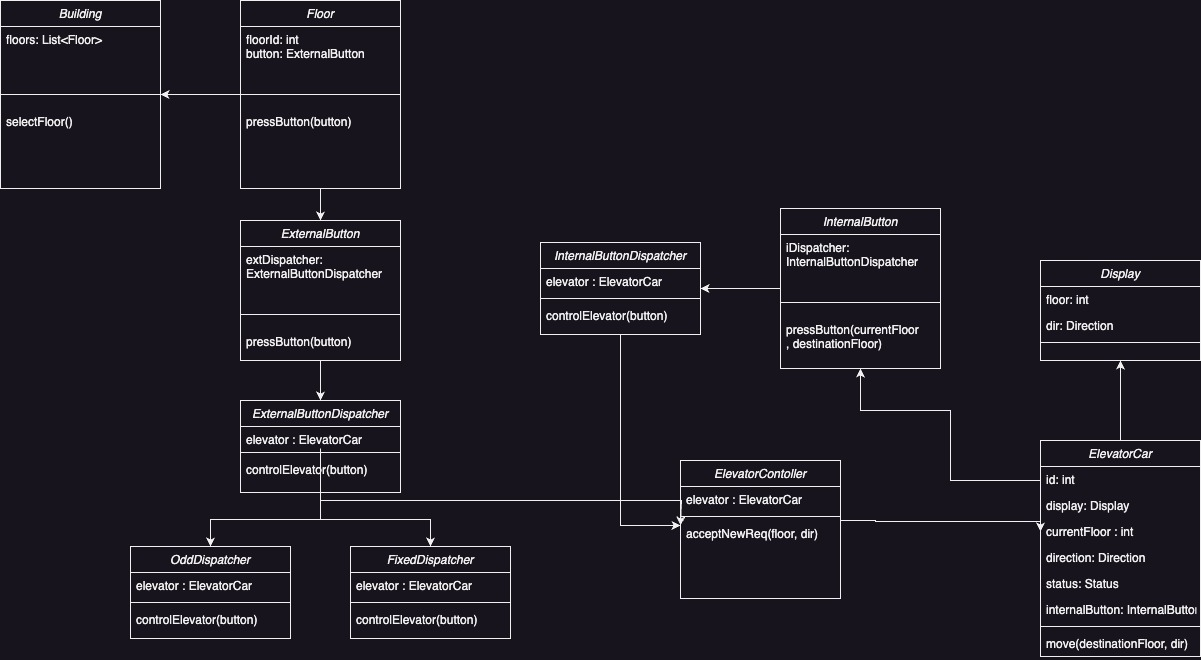
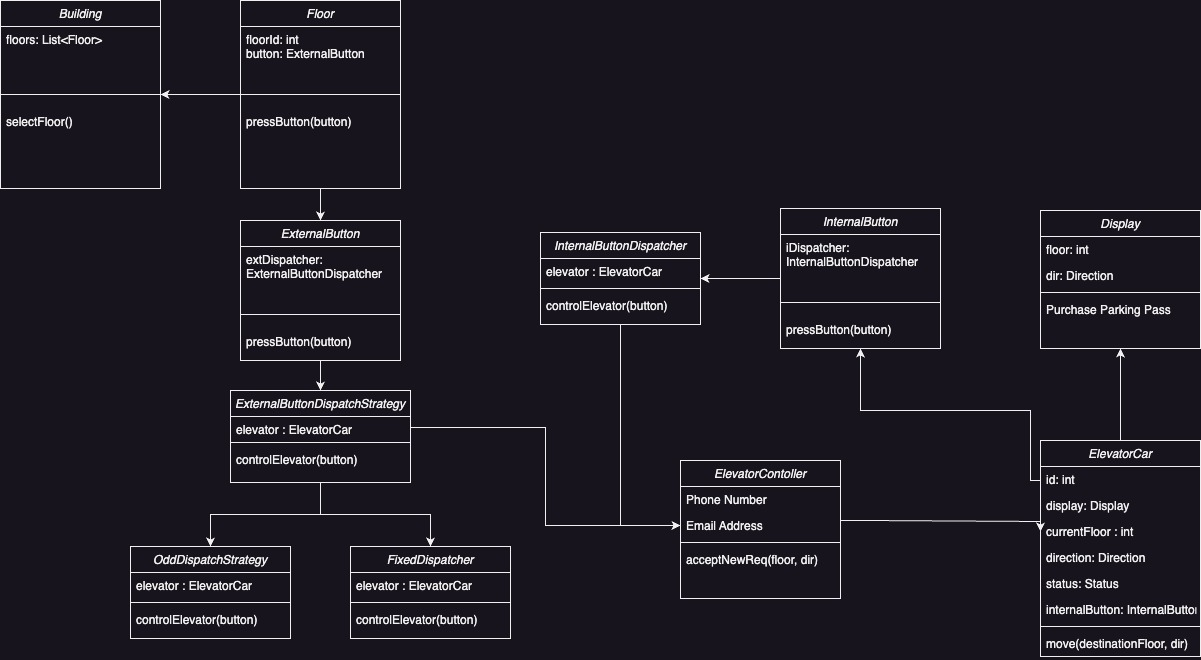
Added new elevator design

diff --git a/src/main/java/org/problems/elevator/ExternalButton.java b/src/main/java/org/problems/elevator/ExternalButton.java
@@ -2,19 +2,20 @@ package org.problems.elevator;
 
 public class ExternalButton {
     private ElevatorController controller;
+    private ExternalButtonDispatchStrategy externalButtonDispatchStrategy;
 
-    public ExternalButton(ElevatorController controller) {
+    public ExternalButton(ElevatorController controller, ExternalButtonDispatchStrategy externalButtonDispatchStrategy) {
         this.controller = controller;
+        this.externalButtonDispatchStrategy = externalButtonDispatchStrategy;
     }
 
-    public void pressButton(String direction) {
+    public void pressButton(String direction, int destinationFloor) {
         System.out.println("External button pressed to go " + direction + ".");
         int currentFloor = controller.getCurrentFloor();
         int targetFloor = currentFloor + (direction.equals("UP") ? 1 : -1);
-        if (targetFloor >= 0) {
-            controller.acceptNewReq(targetFloor, direction);
-        } else {
-            System.out.println("Invalid floor request.");
-        }
+
+        externalButtonDispatchStrategy.controlElevator(currentFloor, destinationFloor, direction);
+
+
     }
 }

diff --git a/src/main/java/org/problems/elevator/ElevatorSystem.java b/src/main/java/org/problems/elevator/ElevatorSystem.java
@@ -11,7 +11,7 @@ public class ElevatorSystem {
         ElevatorController controller = new ElevatorController(elevator);
 
         InternalButton internalButton = new InternalButton(controller);
-        ExternalButton externalButton = new ExternalButton(controller);
+        ExternalButton externalButton = new ExternalButton(controller, new OddDispatchStrategy(controller));
 
         Floor floor1 = new Floor(1, externalButton);
         Floor floor2 = new Floor(2, externalButton);
@@ -23,7 +23,7 @@ public class ElevatorSystem {
         Building building = new Building(floors, controller);
 
         // Simulate pressing buttons
-        floor1.pressButton("UP");
+        floor1.pressButton("UP", 2);
         internalButton.pressButton(2);
         controller.acceptNewReq(1, "DOWN");
     }

diff --git a/src/main/java/org/problems/elevator/OddDispatchStrategy.java b/src/main/java/org/problems/elevator/OddDispatchStrategy.java
@@ -1,0 +1,21 @@
+package org.problems.elevator;
+
+public class OddDispatchStrategy implements ExternalButtonDispatchStrategy{
+
+    ElevatorController controller;
+
+    public OddDispatchStrategy(ElevatorController controller){
+        this.controller = controller;
+    }
+
+    @Override
+    public void controlElevator(int currentFloor, int destinationFloor, String direction) {
+
+        // some logic to control the elevator
+        if (destinationFloor >= 0) {
+            controller.acceptNewReq(destinationFloor, direction);
+        } else {
+            System.out.println("Invalid floor request.");
+        }
+    }
+}

diff --git a/src/main/java/org/problems/elevator/Floor.java b/src/main/java/org/problems/elevator/Floor.java
@@ -9,8 +9,8 @@ public class Floor {
         this.button = button;
     }
 
-    public void pressButton(String direction) {
+    public void pressButton(String direction, int destinationFloor) {
         System.out.println("Button pressed on floor " + floorId + " to go " + direction + ".");
-        button.pressButton(direction);
+        button.pressButton(direction, destinationFloor);
     }
 }

diff --git a/src/main/java/org/problems/elevator/FixedDispatchStrategy.java b/src/main/java/org/problems/elevator/FixedDispatchStrategy.java
@@ -1,0 +1,9 @@
+package org.problems.elevator;
+
+public class FixedDispatchStrategy implements ExternalButtonDispatchStrategy{
+
+    @Override
+    public void controlElevator(int currentFloor, int destinationFloor, String direction) {
+
+    }
+}

diff --git a/src/main/java/org/problems/elevator/ExternalButtonDispatchStrategy.java b/src/main/java/org/problems/elevator/ExternalButtonDispatchStrategy.java
@@ -1,0 +1,5 @@
+package org.problems.elevator;
+
+public interface ExternalButtonDispatchStrategy {
+    void controlElevator(int currentFloor, int destinationFloor, String direction);
+}
